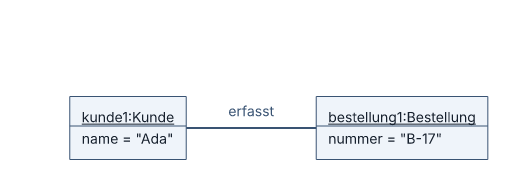
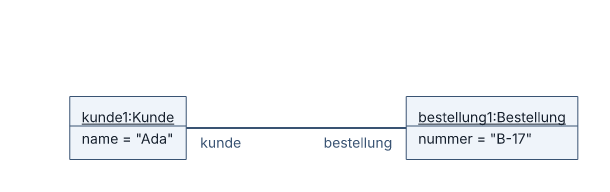
Support UML object-link end names without multiplicities

Changed region(s): [[0.5231, 0.5, 0.9538, 0.8438], [0.0923, 0.5, 0.4, 0.8438], [0.4308, 0.5625, 0.5231, 0.625]]

diff --git a/tests/class_object_members_audit.rs b/tests/class_object_members_audit.rs
@@ -1,4 +1,25 @@
-use laml::parser::parse;
+use laml::{export, geometry::place, parser::parse, route::route, styles::StyleSheet, svg::render};
+
+#[test]
+fn object_links_can_name_ends_but_cannot_assign_multiplicities() {
+    let source = "settings {\ntype: object\n}\nsemantics {\na(of=A)\nb(of=B)\n@link a /owner -- /item b\n}\nlayout {\na < b : gap=180\n}\n";
+    let diagram = parse(source).unwrap();
+    let styles = StyleSheet::default();
+    let nodes = place(&diagram, &styles).unwrap();
+    let routes = route(&diagram, &nodes, &styles).unwrap();
+    let svg = render(&nodes, &routes).unwrap();
+    assert!(svg.contains("owner"));
+    assert!(svg.contains("item"));
+    assert!(export::png(&svg).is_ok());
+    assert!(export::pdf(&svg).is_ok());
+    let bad = source.replace("a /owner", "a \"1\"/owner");
+    assert!(
+        parse(&bad)
+            .unwrap_err()
+            .message
+            .contains("cannot show multiplicities")
+    );
+}
 
 #[test]
 fn uml_members_reject_modifiers_and_kinds_that_misstate_notation() {

diff --git a/src/parser/ends.rs b/src/parser/ends.rs
@@ -85,11 +85,8 @@ pub(super) fn parse(
             ),
         )
     };
-    if diagram_type == DiagramType::Object {
-        return Err(error(
-            line,
-            "object links cannot have association end adornments",
-        ));
+    if diagram_type == DiagramType::Object && multiplicity.is_some() {
+        return Err(error(line, "object links cannot show multiplicities"));
     }
     if diagram_type == DiagramType::Class
         && multiplicity

diff --git a/docs/class-object-diagrams.md b/docs/class-object-diagrams.md
@@ -35,7 +35,7 @@ layout {
 }
 ```
 
-`--` inside a class separates its attribute and operation compartments. `--` between two classifiers declares an association with unspecified navigability. `-->` draws a navigable association with an open arrow; `..>` a dashed dependency; `--|>` a generalization with a hollow triangle; `..|>` a dashed realization. `*--` and `o--` put a composition or aggregation diamond at the whole end. End multiplicities (`"1"`, `"0..*"`), roles (`/kunde`, `/+bestellungen`) and qualifiers (`qualifier(id:UUID)`) are separate association-end annotations. A link in an object diagram has none of these association-end multiplicities.
+`--` inside a class separates its attribute and operation compartments. `--` between two classifiers declares an association with unspecified navigability. `-->` draws a navigable association with an open arrow; `..>` a dashed dependency; `--|>` a generalization with a hollow triangle; `..|>` a dashed realization. `*--` and `o--` put a composition or aggregation diamond at the whole end. End multiplicities (`"1"`, `"0..*"`), roles (`/kunde`, `/+bestellungen`) and qualifiers (`qualifier(id:UUID)`) are separate association-end annotations. A link in an object diagram may show end names, but never association-end multiplicities or qualifiers.
 
 A named relation can be styled using `relation[orders]`, have end-label sides fixed using `relation[orders].source : multiplicity=above; role=below` in `layout`, or have its actual boundary side fixed with `relation[orders].target : side=left`. The attributes can share a rule. A side rule requires a direct node endpoint (not a named member, port or self-loop); an impossible route fails. Named relations can also be the target of a dotted note attachment. A member explicitly named with `@kundenId` can be targeted by an edge. An unaliased member can be targeted as `Kunde::name`; ambiguous overloads fail. An `@id` replaces a default ID and is unique across explicitly named graph elements.
 
@@ -45,7 +45,7 @@ Package blocks create containing frames and scoped IDs. Inside `package Vertrieb
 
 ## Objects
 
-[The object example](../examples/object-basic.laml) declares `kunde1(of=Kunde)` with a slot `name = "Ada"`; its underlined heading reads `kunde1:Kunde`. `@gast anonymous object(of=Kunde)` displays `:Kunde` while retaining a stable explicit address. An object link (`kunde1 -- bestellung1`) is not a class association; its slots are literal text, not evaluated expressions.
+[The object example](../examples/object-basic.laml) declares `kunde1(of=Kunde)` with a slot `name = "Ada"`; its underlined heading reads `kunde1:Kunde`. `@gast anonymous object(of=Kunde)` displays `:Kunde` while retaining a stable explicit address. An object link (`kunde1 /kunde -- /bestellung bestellung1`) can display end names but cannot show multiplicities or qualifier boxes. It is not a class association; its slots are literal text, not evaluated expressions.
 
 ## Shared layout and styling
 

diff --git a/docs/v1.3-status.md b/docs/v1.3-status.md
@@ -14,7 +14,7 @@ Do not update Cargo version, tag, push or publish a v1.3 release until every rel
 ## Validated additions since the preceding checkpoint
 
 - Notes now accept `note Hinweis { ... }` with multiple literal text lines, blank lines and `\\}` for a literal closing brace. Their text is measured as one multiline note; there are no graph compartments inside a note block.
-- UML body checks now reject arbitrary text or `static`/`abstract` object slots, modified enumeration literals, abstract attributes and malformed forced field/method notation. A conservative UML relationship check rejects note-to-class associations, inappropriate member endpoints, association-end adornments on dependency/generalization/realization, self-generalization, package endpoints without validated notation, and aggregation/composition whose whole is not a class. `..|>` is not restricted to interface realization: UML also defines generic Realization. This is not a full UML conformance audit.
+- UML body checks now reject arbitrary text or `static`/`abstract` object slots, modified enumeration literals, abstract attributes and malformed forced field/method notation. Object links can show end names (UML 2.5.1 §9.8.4) but still reject end multiplicities and qualifier boxes. A conservative UML relationship check rejects note-to-class associations, inappropriate member endpoints, association-end adornments on dependency/generalization/realization, self-generalization, package endpoints without validated notation, and aggregation/composition whose whole is not a class. `..|>` is not restricted to interface realization: UML also defines generic Realization. This is not a full UML conformance audit.
 - Optional classifier visibility glyphs (`+ - # ~`) render without changing the node ID; abstract classifiers also display a measured `{abstract}` fallback so the annotation survives exporters without an italic face. Nodes and relations with `<<stereotype>>` suffixes render visibly without becoming styling classes. Bare `<<bind>>` rejects; the checked `<<bind(T->String)>>` substitution requires a local target template and the correct dashed arrow. See `uml-template-bindings-v13.md` for the OMG notation limit. `layout { relation[orders].source : multiplicity=above; role=below }` now gives collision-checked mandatory end-label sides, with analogous `.target` rules.
 - LSS `display: none` works for graph nodes, relations and members; visible references and mandatory layout rules to hidden elements fail. Filtering is consistent between layout and routing.
 - The current local graph changes passed the full test suite, rustfmt and strict Clippy. Full release validation and documentation remain outstanding.

diff --git a/docs/language-reference.md b/docs/language-reference.md
@@ -64,7 +64,7 @@ Directed relations give source-order *preferences* for automatic placement, not 
 
 ## Class and object diagrams
 
-Set `type: class` or `type: object` in `settings`. Class declarations (`class`, `interface`, `enum`, `datatype`, `association class`), notes, packages, attribute and operation compartments, objects with literal slots, named ports and checked UML operators share graph geometry with generic nodes. The [working class/object guide](class-object-diagrams.md) gives complete buildable sources and the accepted notation. Class associations can specify independent end multiplicities, roles and qualifiers; object links reject multiplicities and qualifiers. Unsupported UML combinations are errors rather than generic arrows. Generic graphs can additionally choose `shape: rectangle|ellipse|diamond|note` in LSS; a UML classifier cannot change its meaningful shape through styling.
+Set `type: class` or `type: object` in `settings`. Class declarations (`class`, `interface`, `enum`, `datatype`, `association class`), notes, packages, attribute and operation compartments, objects with literal slots, named ports and checked UML operators share graph geometry with generic nodes. The [working class/object guide](class-object-diagrams.md) gives complete buildable sources and the accepted notation. Class associations can specify independent end multiplicities, roles and qualifiers; object links allow end names but reject multiplicities and qualifiers. Unsupported UML combinations are errors rather than generic arrows. Generic graphs can additionally choose `shape: rectangle|ellipse|diamond|note` in LSS; a UML classifier cannot change its meaningful shape through styling.
 
 ## Layout
 

diff --git a/README.md b/README.md
@@ -57,8 +57,8 @@ SVG defaults to embedded Inter Regular with selectable text. `--svg-text=system`
 
 | [Classes and association ends](examples/class-basic.laml) | [Object instances](examples/object-basic.laml) |
 |---|---|
-| [![Two classes with members, association-end multiplicities and roles, and an attached note](docs/images/class-basic.png)](examples/class-basic.laml) | [![Two underlined object instances connected by a link](docs/images/object-basic.png)](examples/object-basic.laml) |
-| Typed classifiers, compartments, ends and note-to-edge attachment. | Underlined instances, slots and an object link. |
+| [![Two classes with members, association-end multiplicities and roles, and an attached note](docs/images/class-basic.png)](examples/class-basic.laml) | [![Two underlined object instances connected by a link with end names](docs/images/object-basic.png)](examples/object-basic.laml) |
+| Typed classifiers, compartments, ends and note-to-edge attachment. | Underlined instances, slots and a link with end names. |
 
 | [Named n-ary association](examples/class-nary.laml) | [Nested packages](examples/class-packages.laml) |
 |---|---|
